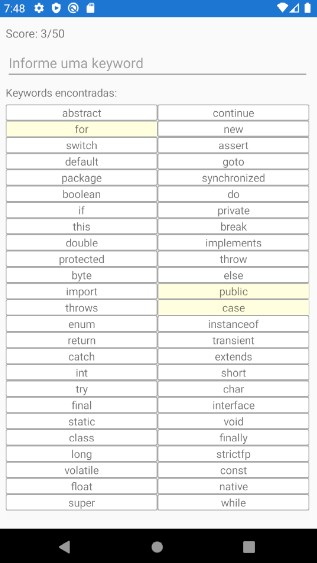
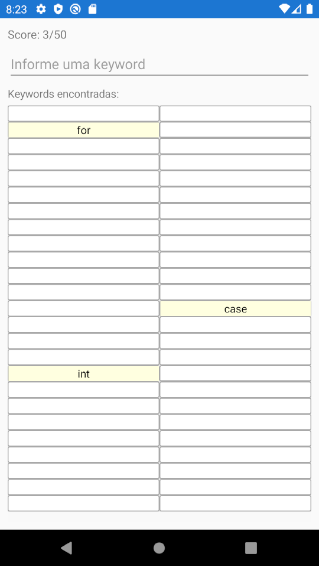
Bug fix ;)

Changed region(s): [[0.0, 0.0, 1.0, 0.9964]]

diff --git a/KeywordsQuiz/KeywordsQuiz/MainPage.xaml b/KeywordsQuiz/KeywordsQuiz/MainPage.xaml
@@ -33,13 +33,17 @@
                         <Frame BorderColor="DarkGray"
                                Padding="1">
                             <Label Text="{Binding Keyword}"
+                                   TextColor="Transparent"
                                    VerticalTextAlignment="Center"
                                    HorizontalTextAlignment="Center">
                                 <Label.Triggers>
                                     <DataTrigger TargetType="Label" 
                                                  Binding="{Binding Found}"
                                                  Value="True">
-                                        <Setter Property="BackgroundColor" Value="LightYellow" />
+                                        <Setter Property="TextColor" 
+                                                Value="Black" />
+                                        <Setter Property="BackgroundColor" 
+                                                Value="LightYellow" />
                                     </DataTrigger>
                                 </Label.Triggers>
                             </Label>
